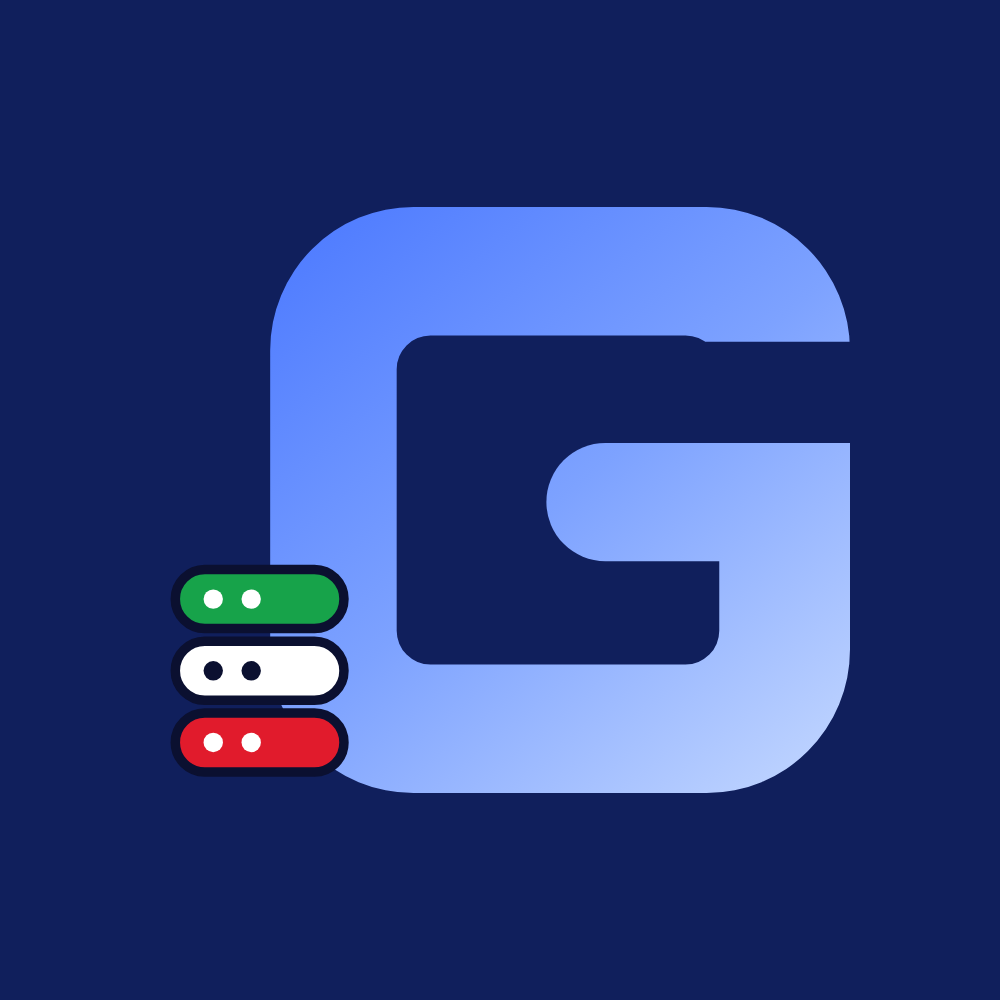
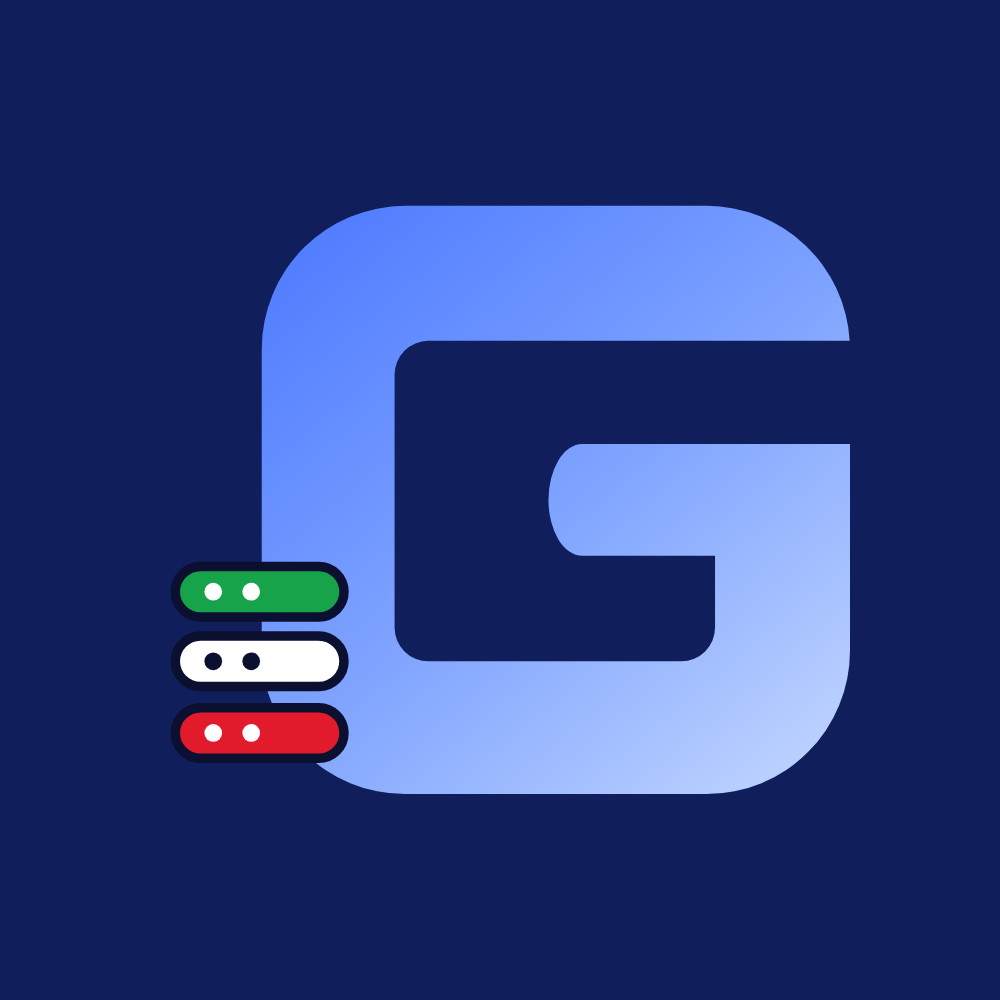
fix: publish the corrected mark in the link preview image
The preview card was rendered before the logo outline was rebuilt as a
single contour, so it still carried the step in the shoulder and the seam
along the crossbar. Re-rendered from the current mark.

Renamed from social.png to og.png on purpose: crawlers cache the preview
image by URL, so replacing the bytes at the same path leaves the old card
in every cache that already fetched it. A new path is fetched fresh.

Also declares og:image:width, height and alt, which Telegram and Slack use
to lay the card out before the image finishes downloading.

diff --git a/index.html b/index.html
@@ -13,7 +13,10 @@
 <meta property="og:title" content="GatewayIRAN — open-source infrastructure tools">
 <meta property="og:description" content="Small, sharp, documented. Reproducible builds, attested releases, no telemetry.">
 <meta property="og:url" content="https://gatewayiran.github.io/">
-<meta property="og:image" content="https://gatewayiran.github.io/assets/social.png">
+<meta property="og:image" content="https://gatewayiran.github.io/assets/og.png">
+<meta property="og:image:width" content="1280">
+<meta property="og:image:height" content="640">
+<meta property="og:image:alt" content="GatewayIRAN — open-source infrastructure tools">
 <meta name="twitter:card" content="summary_large_image">
 
 <link rel="icon" href="assets/favicon.svg" type="image/svg+xml">
